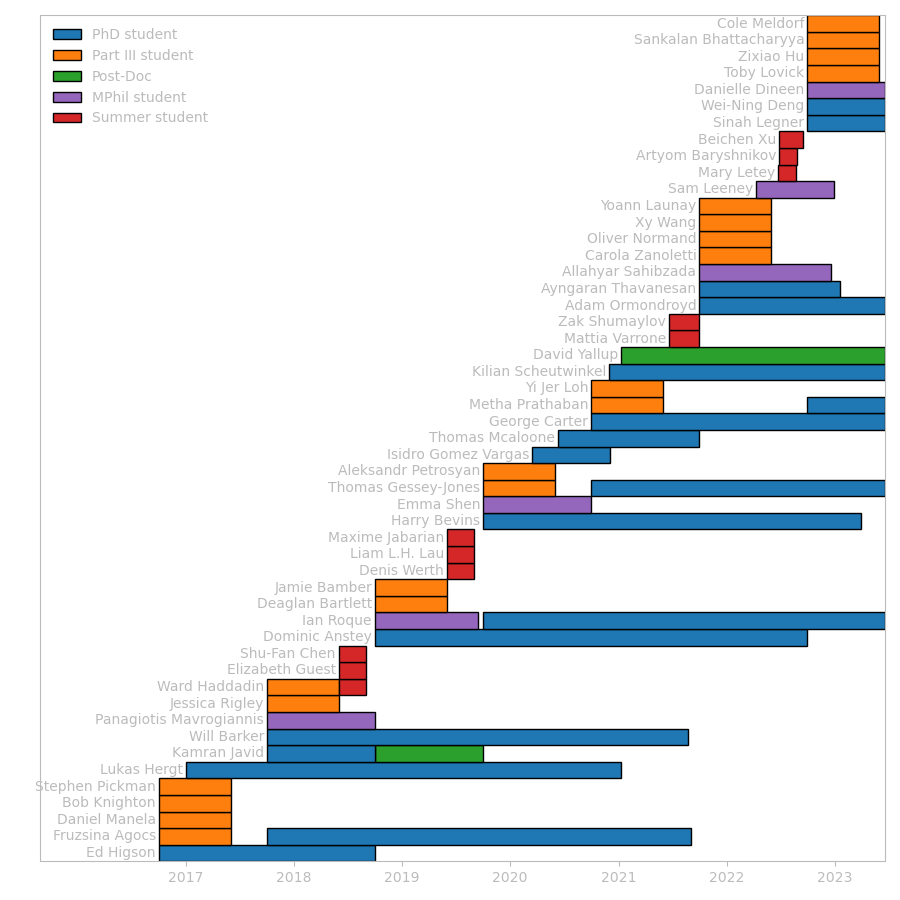
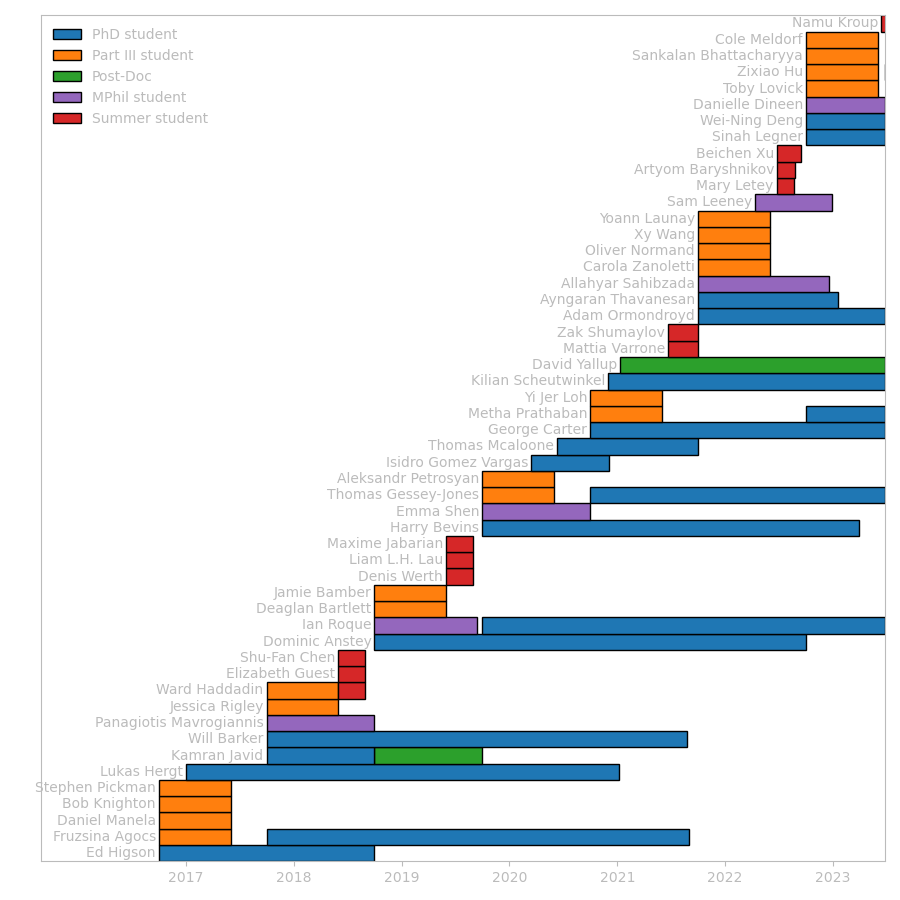
Updated Adams picture

diff --git a/assets/students/students.html b/assets/students/students.html
@@ -52,6 +52,20 @@
   <h1>PhD students</h1>
   <div class="grid">
     <div class="grid-item">
+      <img src="/assets/images/user.png" />
+    </div>
+    <div class="grid-item">
+      <p>
+        <font size="+2">Namu Kroup</font>
+      </p>
+      <p>
+        <ul>
+          <li>PhD student from Oct 2023</li>
+          <li>Summer student from Jun 2023 to Sep 2023</li>
+        </ul>
+      </p>
+    </div>
+    <div class="grid-item">
       <img src="/assets/students/images/sinah_legner.jpg" />
     </div>
     <div class="grid-item">
@@ -343,6 +357,11 @@
             <li>
               <a href="https://publons.com/researcher/5239833/harry-bevins/">Publons</a>
             </li>
+          </ul>
+          <li>Subsequent career:</li>
+          <ul>
+            <li>Apr 2023: Postdoc in Cambridge (Eloy)</li>
+            <li>Oct 2023: Cambridge Kavli Fellowship</li>
           </ul>
         </ul>
       </p>
@@ -865,19 +884,6 @@
 <div class="wrapper" style="margin-top:30pt">
   <h1>Past Summer students</h1>
   <div class="grid">
-    <div class="grid-item">
-      <img src="/assets/images/user.png" />
-    </div>
-    <div class="grid-item">
-      <p>
-        <font size="+2">Namu Kroupa</font>
-      </p>
-      <p>
-        <ul>
-          <li>Summer student from Aug 2023 to Sep 2023</li>
-        </ul>
-      </p>
-    </div>
     <div class="grid-item">
       <img src="/assets/students/images/artyom_baryshnikov.jpg" />
     </div>
